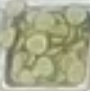
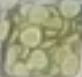
Color analysis Pickles

diff --git a/02. Color analysis/color_analysis_pickles.py b/02. Color analysis/color_analysis_pickles.py
@@ -1,0 +1,119 @@
+import cv2
+import numpy as np
+import os
+import matplotlib.pyplot as plt
+
+def analyze_pickles_refined(folder_path):
+    if not os.path.exists(folder_path):
+        print("Error: Carpeta no encontrada.")
+        return
+
+    files = sorted([f for f in os.listdir(folder_path) if f.endswith('.png')])
+    results_data = []
+
+    print(f"{'ARCHIVO':<25} | {'% FINAL':<10}")
+    print("-" * 40)
+
+    for filename in files:
+        path = os.path.join(folder_path, filename)
+        img = cv2.imread(path)
+        if img is None: continue
+        
+        # 1. PRE-PROCESAMIENTO
+        img_blur = cv2.GaussianBlur(img, (3, 3), 0) # Blur más suave para no perder bordes
+        
+        # --- ESTRATEGIA HÍBRIDA: ExG + SATURACIÓN ---
+        
+        # A) MÁSCARA ExG (Para detectar el color Verde Oliva)
+        img_float = img_blur.astype(np.float32)
+        b, g, r = cv2.split(img_float)
+        exg = 2 * g - r - b
+        exg_norm = cv2.normalize(exg, None, 0, 255, cv2.NORM_MINMAX).astype(np.uint8)
+        
+        # Subimos el umbral a 135 para ser más selectivos con el "verde sólido"
+        _, mask_exg = cv2.threshold(exg_norm, 110, 255, cv2.THRESH_BINARY)
+
+        # B) MÁSCARA DE SATURACIÓN (Para ignorar el metal húmedo/jugo)
+        # El metal y el agua tienen baja saturación. El pepinillo es sólido.
+        hsv = cv2.cvtColor(img_blur, cv2.COLOR_BGR2HSV)
+        s_channel = hsv[:,:,1]
+        
+        # Umbral de saturación: Solo aceptamos colores "vivos" (> 40)
+        _, mask_sat = cv2.threshold(s_channel, 40, 255, cv2.THRESH_BINARY)
+
+        # COMBINACIÓN: Debe ser Verde (ExG) Y Sólido (Saturación)
+        mask_combined = cv2.bitwise_and(mask_exg, mask_sat)
+
+        # 4. MORFOLOGÍA DE PRECISIÓN (El cambio más importante)
+        # Bajamos el kernel de (7,7) a (3,3) y las iteraciones a 1.
+        # Queremos rellenar los huecos DENTRO de la rodaja (semillas), 
+        # pero NO conectar rodajas separadas.
+        kernel_small = cv2.getStructuringElement(cv2.MORPH_ELLIPSE, (3,3))
+        mask_closed = cv2.morphologyEx(mask_combined, cv2.MORPH_CLOSE, kernel_small, iterations=1)
+        
+        # Limpieza final de ruido
+        mask_final = cv2.erode(mask_closed, kernel_small, iterations=1)
+
+        # Filtro de área
+        contours, _ = cv2.findContours(mask_final, cv2.RETR_EXTERNAL, cv2.CHAIN_APPROX_NONE)
+        mask_filtered = np.zeros_like(mask_final)
+        
+        for cnt in contours:
+            # Filtramos trozos muy pequeños
+            if cv2.contourArea(cnt) > 30: 
+                cv2.drawContours(mask_filtered, [cnt], -1, 255, -1)
+
+        # CÁLCULO
+        food_pixels = cv2.countNonZero(mask_filtered)
+        total_pixels = img.shape[0] * img.shape[1]
+        percent = (food_pixels / total_pixels) * 100
+
+        # VISUALIZACIÓN
+        img_visual = img.copy()
+        contours_vis, _ = cv2.findContours(mask_filtered, cv2.RETR_EXTERNAL, cv2.CHAIN_APPROX_NONE)
+        # Dibujamos en Cyan para diferenciar
+        cv2.drawContours(img_visual, contours_vis, -1, (0, 255, 0), 2)
+        
+        # Mapa de Calor (Mostramos ExG puro para referencia)
+        heatmap_view = cv2.applyColorMap(exg_norm, cv2.COLORMAP_JET)
+
+        state_name = filename.replace('.png', '')
+        results_data.append({
+            'name': state_name, 
+            'percent': percent, 
+            'image': cv2.cvtColor(img_visual, cv2.COLOR_BGR2RGB), 
+            'heatmap': cv2.cvtColor(heatmap_view, cv2.COLOR_BGR2RGB)
+        })
+        
+        print(f"{state_name:<25} | {percent:6.2f}%")
+
+    # GRAFICAR
+    if not results_data: return
+    num_images = len(results_data)
+    import math
+    cols = 3
+    rows = math.ceil(num_images / cols) 
+    
+    fig = plt.figure(figsize=(16, 5 * rows))
+    plt.suptitle("Pickles", fontsize=16)
+
+    for i in range(num_images):
+        r = (i // cols); c = (i % cols)
+        
+        ax_img = fig.add_subplot(rows * 2, cols, (r * 2 * cols) + c + 1)
+        data = results_data[i]
+        ax_img.imshow(data['image'])
+        ax_img.set_title(f"{data['name']}\n{data['percent']:.1f}%", fontsize=10, fontweight='bold')
+        ax_img.axis('off')
+
+        ax_heat = fig.add_subplot(rows * 2, cols, ((r * 2 + 1) * cols) + c + 1)
+        ax_heat.imshow(data['heatmap'])
+        ax_heat.set_title("Señal ExG", fontsize=9)
+        ax_heat.axis('off')
+
+    plt.tight_layout()
+    plt.show()
+
+if __name__ == "__main__":
+    folder = r"color_analysis\pickles" 
+    analyze_pickles_refined(folder)

diff --git a/02. Color analysis/color_analysis_pepper.py b/02. Color analysis/color_analysis_pepper.py
@@ -1,0 +1,112 @@
+import cv2
+import numpy as np
+import os
+import matplotlib.pyplot as plt
+
+def analyze_peppers_lab(folder_path):
+    if not os.path.exists(folder_path):
+        print("Error: Carpeta no encontrada.")
+        return
+
+    files = sorted([f for f in os.listdir(folder_path) if f.endswith('.png')])
+    results_data = []
+
+    print(f"{'ARCHIVO':<25} | {'% FINAL':<10}")
+    print("-" * 40)
+
+    for filename in files:
+        path = os.path.join(folder_path, filename)
+        img = cv2.imread(path)
+        if img is None: continue
+        
+        # 1. PRE-PROCESAMIENTO
+        # Un desenfoque medio ayuda a suavizar los brillos fuertes del pimiento
+        img_blur = cv2.GaussianBlur(img, (5, 5), 0)
+
+        # 2. CONVERSIÓN A LAB
+        # Usamos LAB porque separa la Luminosidad (L) del Color (A y B).
+        # Para el pimiento (Amarillo/Verde), el canal B es el más informativo.
+        lab = cv2.cvtColor(img_blur, cv2.COLOR_BGR2LAB)
+        l_channel, a_channel, b_channel = cv2.split(lab)
+
+        # 3. UMBRALIZACIÓN EN CANAL B (AMARILLO)
+        # El metal (gris) tiene un valor B cercano a 128 (neutro).
+        # El pimiento tiene componente amarilla, así que su valor B será alto.
+        # Probamos con 142 para cortar el metal sucio pero capturar el pimiento pálido.
+        thresh_val = 147
+        _, mask = cv2.threshold(b_channel, thresh_val, 255, cv2.THRESH_BINARY)
+
+        # 4. MORFOLOGÍA (CRÍTICO PARA PIMIENTO)
+        # El pimiento tiene "brillos blancos" (reflejos) que crean agujeros en la máscara.
+        # Usamos MORPH_CLOSE para cerrar esos agujeros dentro de los trozos.
+        kernel_close = np.ones((5,5), np.uint8) 
+        mask_closed = cv2.morphologyEx(mask, cv2.MORPH_CLOSE, kernel_close, iterations=2)
+        
+        # Un poco de Erode para separar trozos que apenas se tocan y limpiar ruido de fondo
+        kernel_erode = np.ones((3,3), np.uint8)
+        mask_final = cv2.erode(mask_closed, kernel_erode, iterations=1)
+
+        # Filtro de área (Eliminar ruido pequeño)
+        contours, _ = cv2.findContours(mask_final, cv2.RETR_EXTERNAL, cv2.CHAIN_APPROX_NONE)
+        mask_filtered = np.zeros_like(mask_final)
+        
+        for cnt in contours:
+            # Filtramos motas pequeñas (< 50px)
+            if cv2.contourArea(cnt) > 50: 
+                cv2.drawContours(mask_filtered, [cnt], -1, 255, -1)
+
+        # CÁLCULO
+        food_pixels = cv2.countNonZero(mask_filtered)
+        total_pixels = img.shape[0] * img.shape[1]
+        percent = (food_pixels / total_pixels) * 100
+
+        # VISUALIZACIÓN
+        img_visual = img.copy()
+        contours_vis, _ = cv2.findContours(mask_filtered, cv2.RETR_EXTERNAL, cv2.CHAIN_APPROX_NONE)
+        cv2.drawContours(img_visual, contours_vis, -1, (0, 255, 0), 2)
+        
+        # Mapa de Calor: Usamos el Canal B (Intensidad Amarilla)
+        # Esto nos mostrará qué tan "amarillo" ve el algoritmo cada zona
+        heatmap_view = cv2.applyColorMap(b_channel, cv2.COLORMAP_JET)
+
+        state_name = filename.replace('.png', '')
+        results_data.append({
+            'name': state_name, 
+            'percent': percent, 
+            'image': cv2.cvtColor(img_visual, cv2.COLOR_BGR2RGB), 
+            'heatmap': cv2.cvtColor(heatmap_view, cv2.COLOR_BGR2RGB)
+        })
+        
+        print(f"{state_name:<25} | {percent:6.2f}%")
+
+    # GRAFICAR
+    if not results_data: return
+    num_images = len(results_data)
+    import math
+    cols = 3
+    rows = math.ceil(num_images / cols) 
+    
+    fig = plt.figure(figsize=(16, 5 * rows))
+    plt.suptitle("Pepper", fontsize=16)
+
+    for i in range(num_images):
+        r = (i // cols); c = (i % cols)
+        
+        ax_img = fig.add_subplot(rows * 2, cols, (r * 2 * cols) + c + 1)
+        data = results_data[i]
+        ax_img.imshow(data['image'])
+        ax_img.set_title(f"{data['name']}\n{data['percent']:.1f}%", fontsize=10, fontweight='bold')
+        ax_img.axis('off')
+
+        ax_heat = fig.add_subplot(rows * 2, cols, ((r * 2 + 1) * cols) + c + 1)
+        ax_heat.imshow(data['heatmap'])
+        ax_heat.set_title("Intensidad Amarilla (Canal B)", fontsize=9)
+        ax_heat.axis('off')
+
+    plt.tight_layout()
+    plt.show()
+
+if __name__ == "__main__":
+    # Ajusta la ruta a tu carpeta de pimientos
+    folder = r"color_analysis\pepper" 
+    analyze_peppers_lab(folder)

diff --git a/02. Color analysis/color_analysis_pepper_README.md b/02. Color analysis/color_analysis_pepper_README.md
@@ -1,0 +1,62 @@
+# Informe Técnico: Algoritmo de Segmentación Volumétrica en Espacio LAB para Detección de Pimientos
+
+**Fecha:** 01 de Diciembre, 2025  
+**Contexto:** Visión por Computador / Procesamiento de Imágenes  
+**Objeto de Estudio:** Segmentación de pimientos troceados (*Bell Peppers*) en bandejas de acero inoxidable.
+
+---
+
+## 1. Resumen Ejecutivo
+El presente documento detalla la metodología algorítmica para la cuantificación de vegetales de cuerpo sólido (pimientos). A diferencia de las hojas planas (lechuga), los pimientos presentan dos desafíos únicos: una **superficie cerosa** que genera fuertes reflejos especulares (puntos blancos brillantes) y una **geometría volumétrica** (cubos). La solución implementada utiliza el canal de crominancia **B** del espacio de color **CIE L*a*b*** para aislar la pigmentación amarilla/verdosa, combinado con operaciones morfológicas de cierre para recuperar la integridad estructural del objeto frente a los brillos.
+
+---
+### Resultados Visuales
+
+Segmentación volumétrica basada en el Canal B del espacio CIE L*a*b* y reconstrucción morfológica:
+
+<div align="center">
+  <img src="results/pepper_results.png" width="700" alt="Segmentación de Pimiento">
+  <p><em>Figura 1: Mapa de calor del Canal B representando la intensidad cromática amarilla.</em></p>
+</div>
+
+## 2. Metodología
+
+El enfoque RGB tradicional falla debido a que los reflejos blancos en el pimiento tienen valores altos en los tres canales ($R=G=B=255$), confundiéndose con el fondo o perdiendo información de color. Se adopta una estrategia de desacople de luminancia y crominancia.
+
+### 2.1. Selección del Espacio de Color (CIE L*a*b*)
+
+Se transforma la imagen al espacio **L*a*b***, diseñado para aproximar la visión humana. Este espacio separa la luminosidad ($L$) de la información de color ($a$ y $b$).
+
+* **Canal $L$:** Luminosidad (Ignorado para evitar sesgos por sombras o brillos excesivos).
+* **Canal $a$:** Eje Verde-Rojo.
+* **Canal $b$:** Eje Azul-Amarillo (Seleccionado como descriptor principal).
+
+**Fundamento Físico en el Canal $B$:**
+En la implementación digital de OpenCV (8-bits):
+* **Valor Neutro (Metal):** El gris acromático se sitúa en el centro del espectro ($B \approx 128$).
+* **Pimiento (Amarillo/Verde):** La pigmentación del pimiento empuja el valor hacia el extremo positivo del eje amarillo ($B > 140$).
+* **Contraste:** Esta propiedad permite una binarización robusta donde el metal se mantiene estable en valores medios, mientras el producto destaca en valores altos.
+
+### 2.2. Umbralización Cromática
+
+Se aplica una segmentación por umbral simple sobre el Canal $B$ aislado. A diferencia de métodos adaptativos, aquí se busca un corte absoluto que separe lo "cálido/amarillo" de lo "neutro/gris".
+
+**Umbral de Corte:** $T = 142$
+
+$$M(x,y) = \begin{cases} 255 & \text{si } Channel_B(x,y) > 142 \\ 0 & \text{en caso contrario} \end{cases}$$
+
+Este valor es crítico para rechazar el metal sucio (que puede tener tintes cálidos leves) pero aceptar la pulpa del pimiento.
+
+### 2.3. Reconstrucción Morfológica (Handling Specular Highlights)
+
+El pimiento húmedo refleja la luz de las lámparas, creando "agujeros" blancos en la máscara binaria (el blanco puro no tiene información de color amarillo, por lo que el paso 2.2 lo descarta). Para corregir esto, se aplica una operación de **Cierre Morfológico (Morphological Closing)**:
+
+1.  **Operación:** Dilatación seguida de Erosión ($Close = Erode(Dilate(src))$).
+2.  **Kernel:** Matriz rectangular de $5 \times 5$.
+3.  **Efecto:** Actúa como un "puente", conectando los píxeles amarillos que rodean un brillo blanco. Esto rellena los huecos internos del pimiento, consolidando el cubo troceado como un objeto sólido y recuperando el área perdida por el reflejo.
+
+---
+
+## 3. Conclusión Técnica
+
+La segmentación basada en el **Canal B del espacio Lab** demuestra ser la estrategia óptima para vegetales con componentes amarillos/verdosos en entornos metálicos. La clave del éxito en esta matriz específica (pimiento) no reside solo en el color, sino en el post-procesamiento morfológico (**Closing**), que mitiga el efecto de los reflejos especulares propios de superficies lisas y húmedas, garantizando una medición de área fiel a la biomasa presente.

diff --git a/02. Color analysis/color_analysis_pickles_README.md b/02. Color analysis/color_analysis_pickles_README.md
@@ -1,0 +1,66 @@
+# Informe Técnico: Algoritmo Híbrido Espectral-Saturación para Segmentación de Pepinillos (Pickles)
+
+**Fecha:** 01 de Diciembre, 2025  
+**Contexto:** Visión por Computador / Procesamiento de Imágenes  
+**Objeto de Estudio:** Segmentación de rodajas de pepinillo (*Pickles*) en bandejas de acero inoxidable.
+
+---
+
+## 1. Resumen Ejecutivo
+El presente documento detalla la metodología algorítmica para la cuantificación de pepinillos en rodajas. Este producto presenta desafíos únicos: un color **verde oliva** (menos vibrante que la lechuga), presencia de **líquido de cobertura** (salmuera verdosa) y una geometría de **rodajas separadas**. La solución implementada utiliza una fusión de sensores virtuales: el índice **ExG** ajustado para tonos oliva y un filtro de **Saturación HSV** para rechazar líquidos translúcidos, combinado con una morfología de precisión para respetar la individualidad de las rodajas.
+
+---
+### Resultados Visuales
+
+Visualización de la estrategia híbrida (ExG + Filtro de Saturación) con morfología de precisión:
+
+<div align="center">
+  <img src="results/pickles_results.png" width="700" alt="Segmentación de Pickles">
+  <p><em>Figura 1: Mapa de calor ExG ajustado a tonos oliva y filtrado de líquidos.</em></p>
+</div>
+
+## 2. Metodología
+
+A diferencia de la lechuga (donde el color es suficiente), el pepinillo requiere distinguir entre "objeto sólido" y "líquido coloreado". Por ello, se implementa una lógica de intersección de máscaras.
+
+### 2.1. Índice de Exceso de Verde (ExG - Olive Tuned)
+
+Se utiliza el índice aritmético ExG para aislar la pigmentación verde, pero con parámetros ajustados para tonos más oscuros y apagados (verde militar/oliva).
+
+$$ExG(x,y) = 2 \times G(x,y) - R(x,y) - B(x,y)$$
+
+**Normalización y Umbralización:**
+Tras normalizar el resultado al rango $[0, 255]$, se aplica un umbral específico.
+* **Umbral ($T_{exg} = 120$):** Se reduce respecto a la lechuga (que usa 150). Esto permite capturar el verde oscuro de la piel del pepinillo, que de otro modo sería ignorado como "fondo oscuro".
+
+### 2.2. Filtrado de Saturación (Rechazo de Salmuera/Metal)
+
+El metal húmedo y el jugo de los pepinillos pueden tener un tinte verdoso leve, pero su saturación cromática es baja. El pepinillo sólido tiene una saturación alta.
+
+* **Espacio:** HSV (Hue, Saturation, Value).
+* **Umbral ($T_{sat} = 40$):**
+    * $S < 40$: Se considera metal, reflejo blanco o líquido translúcido (se descarta).
+    * $S \ge 40$: Se considera cuerpo sólido pigmentado.
+
+**Fusión Lógica:**
+La máscara final se obtiene mediante la intersección (**AND**) de ambas condiciones:
+$$M_{final} = M_{ExG} \cap M_{Saturación}$$
+
+### 2.3. Morfología de Precisión (Anti-Burbuja)
+
+El desafío geométrico es evitar que el algoritmo una rodajas que están separadas (lo que inflaría el porcentaje en bandejas vacías o "lower").
+
+1.  **Kernel Elíptico ($3 \times 3$):** Se utiliza una matriz circular pequeña que se adapta mejor a la forma curva de las rodajas que un kernel rectangular.
+2.  **Operación Closing Suave:**
+    * Se redujo el kernel de $7\times7$ (usado en versiones anteriores) a $3\times3$.
+    * **Objetivo:** Rellena únicamente los huecos internos pequeños (semillas) sin crear "puentes" falsos entre rodajas vecinas.
+3.  **Erosión de Limpieza:** Elimina los bordes difusos creados por el desenfoque inicial.
+
+---
+
+## 3. Conclusión Técnica
+
+La estrategia híbrida demuestra ser robusta frente a los falsos positivos típicos de productos en conserva.
+1.  **ExG (120):** Garantiza que se detecte el color oscuro del vegetal.
+2.  **Saturación (>40):** Garantiza que no se cuente el jugo verde sobre el metal.
+3.  **Morfología Fina ($3\times3$):** Soluciona el problema de la sobreestimación volumétrica, asegurando que una bandeja con pocas rodajas ("Lower") reporte un porcentaje significativamente menor que una llena ("Full"), restaurando la linealidad lógica de la medición.

diff --git a/02. Color analysis/color_analysis_onion_README.md b/02. Color analysis/color_analysis_onion_README.md
@@ -14,11 +14,11 @@ La solución implementada evita el uso de modelos de aprendizaje profundo (Deep 
 ---
 ### Resultados Visuales
 
-A continuación se muestra el resultado de la segmentación:
+Resultados obtenidos mediante el filtrado de banda estrecha en escala de grises (Rango 145-170):
 
 <div align="center">
   <img src="results/onion_results.png" width="700" alt="Gráfica de Resultados de Cebolla">
-  <p><em>Figura 1: Comparativa entre imagen original y mapa de calor.</em></p>
+  <p><em>Figura 1: Aislamiento de la cebolla basado en su firma de intensidad específica.</em></p>
 </div>
 ## 2. Metodología
 
